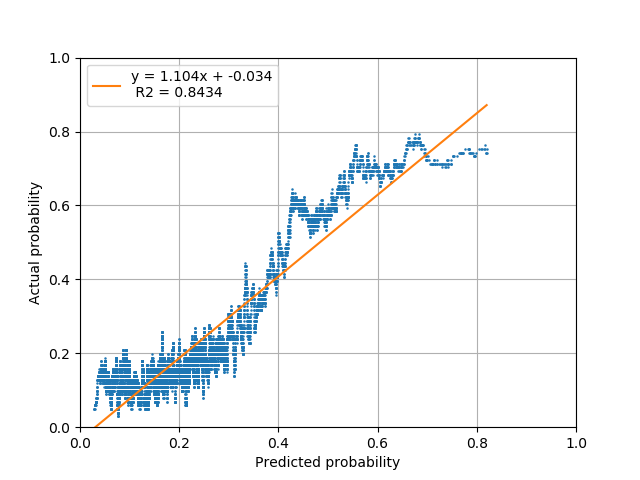
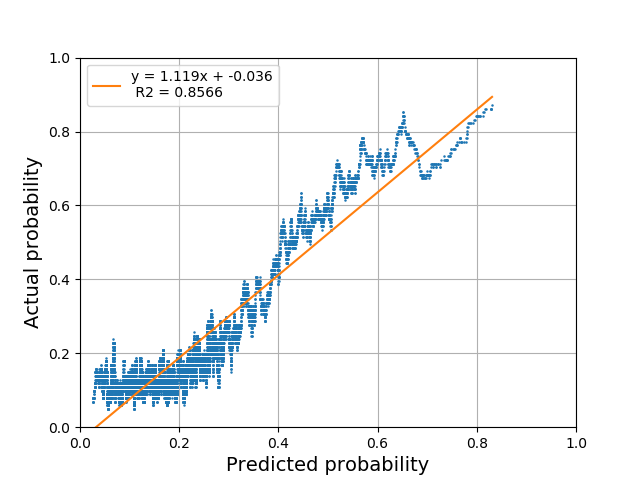
stuff

diff --git a/src/nn_archs.py b/src/nn_archs.py
@@ -1,0 +1,32 @@
+import numpy as np
+from read_data import get_data
+import sys
+sys.path.append("network/")
+from NN import NeuralNet
+from metrics import gain_chart, prob_acc
+
+#X, Y = get_data(normalized = False, standardized = False)
+X, Y = get_data()
+
+#with open("nn_arch.txt", "w+") as f:
+
+    f.write("Activation | Hidden layers | Nodes | Area Test | R2 Test | Error rate \n")
+    f.write("-"*70)
+
+    for act in ['tanh', 'sigmoid', 'relu']:
+        for size in [5, 10, 20, 50, 100]:
+            for n_lay in [1, 2, 3]:
+                nn = NeuralNet(X, Y.flatten(), nodes = [23] + [size]*n_lay + [2], \
+                    activations = [act]*n_lay + [None], cost_func = 'log')
+                nn.split_data(frac = 0.5, shuffle = True)
+                nn.TrainNN(epochs = 2000, batchSize = 200, eta0 = 0.01, n_print = 100)
+
+                ypred_test = nn.feed_forward(nn.xTest, isTraining=False)
+                acc = nn.accuracy(nn.yTest, ypred_test)
+                err_rate = 1 - acc/100
+                area = gain_chart(nn.yTest, ypred_test, plot=False)
+                R2 = prob_acc(nn.yTest, ypred_test, plot=False)
+
+                f.write("\n  %s  |  %i  |  %i  |  %.5f  |  %.5f  |  %.3f "\
+                        %(act, n_lay, size, area, R2, err_rate))
+        f.write("\n" + "-"*70)

diff --git a/src/logistic.py b/src/logistic.py
@@ -9,9 +9,33 @@ from metrics import gain_chart, prob_acc
 X, Y = get_data()
 
 logreg = LogReg(X, Y)
-logreg.optimize(m = 100, epochs= 2000, eta = 0.01, regularization='l2', lamb=0.0001)
+logreg.optimize(m = 100, epochs= 5000, eta = 0.01)#, regularization='l2', lamb=0.0001)
 
 ypred_train = logreg.p_train
 ypred_test = logreg.p_test
 gain_chart(logreg.Y_test, ypred_test)
 prob_acc(logreg.Y_test, ypred_test)
+
+def regularization_test():
+
+    with open("log_regular.txt", "w+") as f:
+
+        f.write("Regularization | lambda | Area | R2\n")
+        f.write("-"*50 + "\n")
+        for reg in ['l2', 'l1']:
+            for lamb in [0.0001, 0.001, 0.01, 0.1, 1.0]:
+
+                logreg = LogReg(X, Y)
+                logreg.optimize(m = 100, epochs= 5000, eta = 0.01, regularization=reg, lamb=lamb)
+
+                ypred_train = logreg.p_train
+                ypred_test = logreg.p_test
+                area = gain_chart(logreg.Y_test, ypred_test, plot = False)
+                R2 = prob_acc(logreg.Y_test, ypred_test, plot = False)
+
+                f.write("  %s  |  %g  |  %.4f  |  %.4f  \n" %(reg, lamb, area, R2))
+
+            f.write("-"*50 + "\n")
+
+if __name__ == "__main__":
+    regularization_test()

diff --git a/src/network/logreg.py b/src/network/logreg.py
@@ -91,12 +91,12 @@ class LogReg():
             if epoch % 10 == 0 or epoch == 0:
 
                 logit_train = X_train @ beta
-                self.train_cost = (-np.sum((Y_train * logit_train) - np.log(1 + np.exp(logit_train))))/X_train.shape[0] + reg_cost(beta)
+                self.train_cost = 0.5*(-np.sum((Y_train * logit_train) - np.log(1 + np.exp(logit_train))))/X_train.shape[0] + reg_cost(beta)
                 self.p_train = 1/(1 + np.exp(-logit_train))
                 self.train_accuracy = np.sum((self.p_train > 0.5) == Y_train)/X_train.shape[0]
 
                 logit_test = X_test @ beta
-                self.test_cost = (-np.sum((Y_test * logit_test) - np.log(1 + np.exp(logit_test))))/X_test.shape[0] + reg_cost(beta)
+                self.test_cost = 0.5*(-np.sum((Y_test * logit_test) - np.log(1 + np.exp(logit_test))))/X_test.shape[0] + reg_cost(beta)
                 self.p_test = 1/(1 + np.exp(-logit_test))
                 self.test_accuracy = np.sum((self.p_test > 0.5) == Y_test)/X_test.shape[0]
 

diff --git a/src/rf_test.py b/src/rf_test.py
@@ -7,13 +7,16 @@ from metrics import gain_chart, prob_acc
 from sklearn.tree import DecisionTreeClassifier
 import sys
 sys.path.append("network/")
+from resampling import Resample
 
 X, Y = get_data()
 Y = Y.flatten()
 X_train, X_test, Y_train, Y_test = train_test_split(X, Y, test_size = 0.5)
+#r = Resample(X_train, Y_train)
+#X_train, Y_train = r.Over()
 
 
-clf_rf = RandomForestClassifier(n_estimators=100, max_depth=6)
+clf_rf = RandomForestClassifier(n_estimators=100, max_depth=8, min_samples_split = 100)
 
 clf_rf.fit(X_train, Y_train)
 
@@ -24,7 +27,7 @@ prob_acc(Y_test, ypred_test)
 
 
 
-clf_dt = DecisionTreeClassifier(max_depth = 4)
+clf_dt = DecisionTreeClassifier(max_depth = 6, min_samples_split = 200)
 clf_dt.fit(X_train, Y_train)
 
 ypred_test = clf_dt.predict_proba(X_test)

diff --git a/src/test.py b/src/test.py
@@ -9,9 +9,9 @@ from metrics import gain_chart, prob_acc
 X, Y = get_data()
 print(np.count_nonzero(Y == 1))
 
-nn = NeuralNet(X, Y.flatten(), nodes = [23, 20, 20, 2], activations = ['tanh', 'tanh',None], cost_func = 'log')
+nn = NeuralNet(X, Y.flatten(), nodes = [23, 20, 20,2], activations = ['tanh','tanh',None], cost_func = 'log')
 nn.split_data(frac = 0.5, shuffle = True)
-nn.TrainNN(epochs = 10000, batchSize = 200, eta0 = 0.01, n_print = 100)
+nn.TrainNN(epochs = 20000, batchSize = 200, eta0 = 0.01, n_print = 100)
 
 ypred_test = nn.feed_forward(nn.xTest, isTraining=False)
 gain_chart(nn.yTest, ypred_test)

diff --git a/src/metrics.py b/src/metrics.py
@@ -85,8 +85,8 @@ def prob_acc(y, ypred, n = 50, plot = True):
         plt.plot(pred_plt, b + pred_plt*a, label="y = %.3fx + %.3f\n R2 = %.4f" %(a, b,R2))
         plt.xlim([0, 1])
         plt.ylim([0, 1])
-        plt.xlabel("Predicted probability")
-        plt.ylabel("Actual probability")
+        plt.xlabel("Predicted probability", fontsize=14)
+        plt.ylabel("Actual probability", fontsize=14)
         plt.grid(True)
         plt.legend()
         plt.show()
